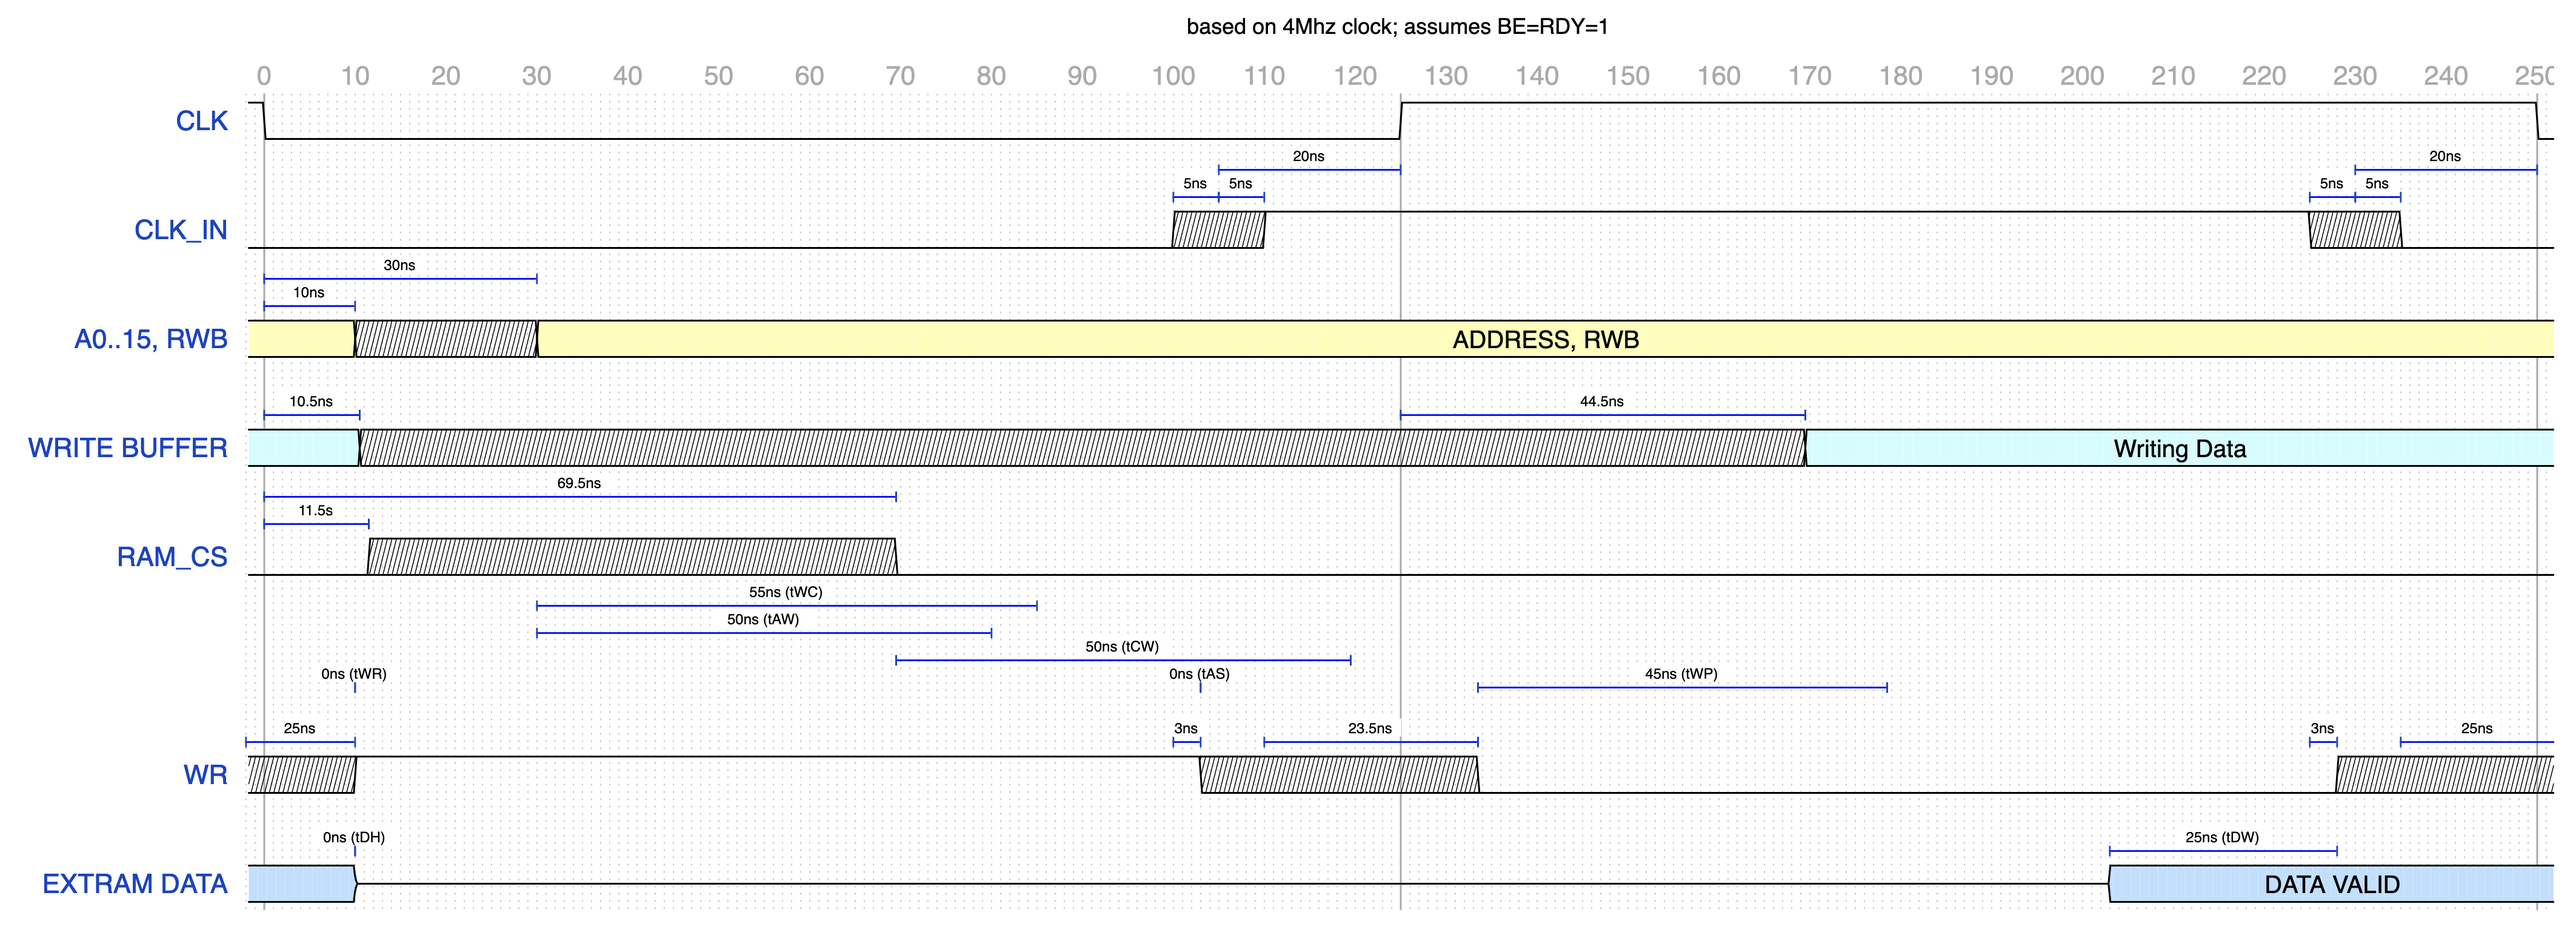
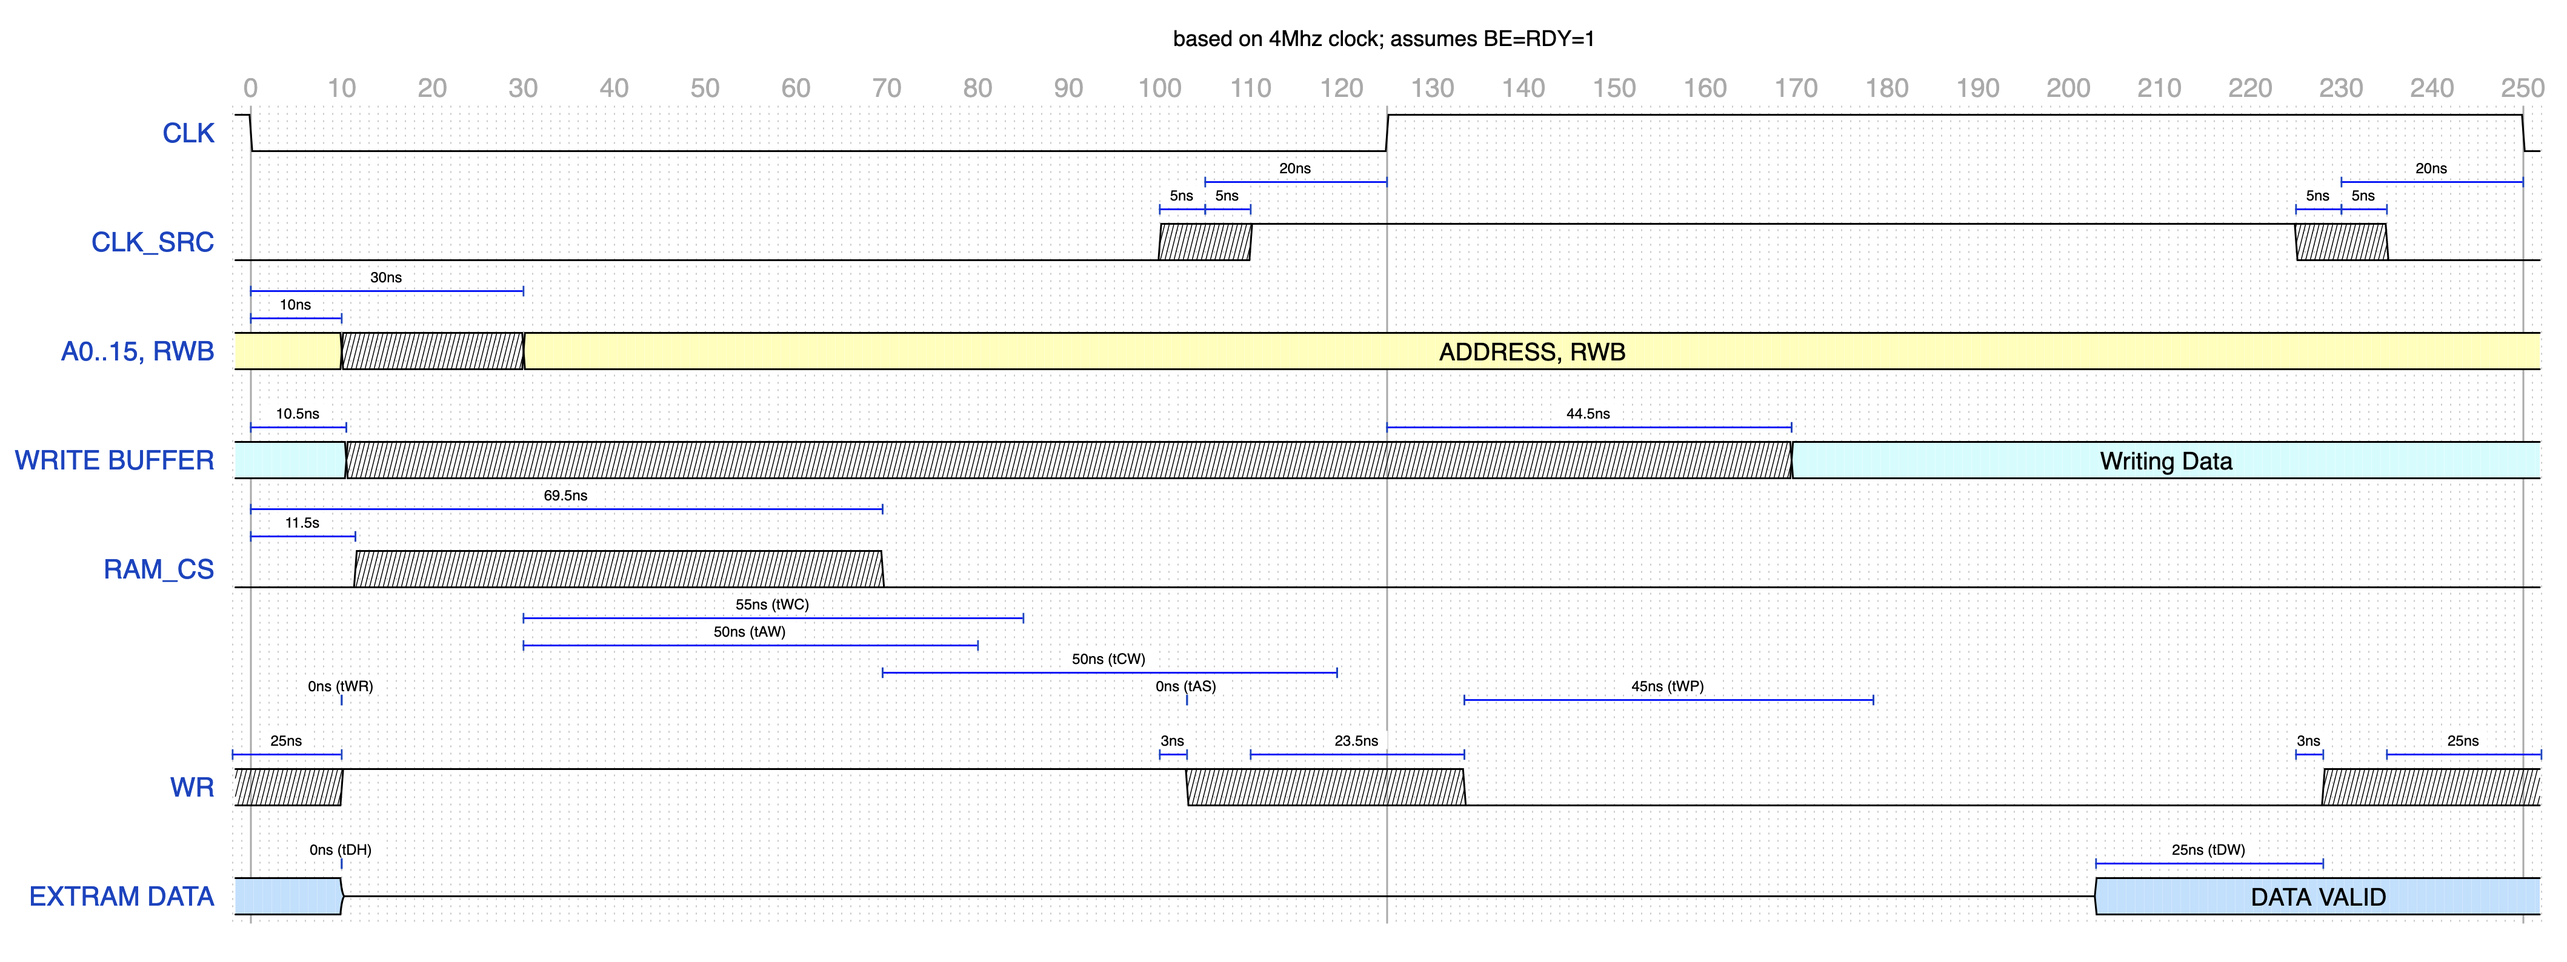
Rename SRC

diff --git a/README.md b/README.md
@@ -209,7 +209,7 @@ Uses [custom fork](https://github.com/adrienkohlbecker/wavedrom)
 ```js
 {
   signal: [
-    { name: 'CLK_IN', wave: '0..(25)x(10)1(40)x(10)0(17)', phase: 0.20 },
+    { name: 'CLK_SRC', wave: '0..(25)x(10)1(40)x(10)0(17)', phase: 0.20 },
     { nodes: ['...(25)Ο(5)Ό(5)G(40)H(5)R(5)P', '...(30)Ν(10)Ά(40)Β(10)Ξ'], phase: 0.45 },
     { name: 'CLK-', wave: '0..(37.5)x(5)1(45)x(5)0..(7.5)', phase: 0.20 },
     { nodes: ['...(37.5)Ё(2.5)Ж(2.5)S(45)T(2.5)Ћ(2.5)Δ', '...(40)L(10)K(40)M(10)Σ'], phase: 0.45 },
@@ -671,7 +671,7 @@ Uses [custom fork](https://github.com/adrienkohlbecker/wavedrom)
   signal: [
     { name: 'CLK', wave: '1.0(125)1(125)0.', phase: 0.20 },
     { nodes: ['...(105)Λ(20)T(105)Y(20)Ы', '...(100)W(5)X(5)A(115)Δ(5)O(5)Z'], phase: 0.9 },
-    { name: 'CLK_IN', wave: '0..(100)x(10)1(115)x(10)0(17)', phase: 0.20 },
+    { name: 'CLK_SRC', wave: '0..(100)x(10)1(115)x(10)0(17)', phase: 0.20 },
     { nodes: ['..Ύ(30)Д', '..Б(10)Г'], phase: 0.9 },
     { name: 'A0..15, RWB', wave: '3..(10)x(20)3(220)..', data: ['', 'ADDRESS, RWB'], phase: 0.20 },
     { nodes: ['..Φ(10.5)Έ(114.5)Ζ(44.5)Η'], phase: 0.9 },
@@ -786,7 +786,7 @@ Uses [custom fork](https://github.com/adrienkohlbecker/wavedrom)
   signal: [
     { name: 'CLK', wave: '1.0(125)1(125)0.', phase: 0.20 },
     { nodes: ['...(105)Λ(20)T(105)Y(20)Ы', '...(100)W(5)X(5)A(115)Δ(5)O(5)Z'], phase: 0.9 },
-    { name: 'CLK_IN', wave: '0..(100)x(10)1(115)x(10)0(17)', phase: 0.20 },
+    { name: 'CLK_SRC', wave: '0..(100)x(10)1(115)x(10)0(17)', phase: 0.20 },
     { nodes: ['..Ύ(30)Д', '..Б(10)Г'], phase: 0.9 },
     { name: 'A0..15, RWB', wave: '3..(10)x(20)3(220)..', data: ['', 'ADDRESS, RWB'], phase: 0.20 },
     { nodes: ['..Φ(10.5)Έ(114.5)Ζ(44.5)Η'], phase: 0.9 },
